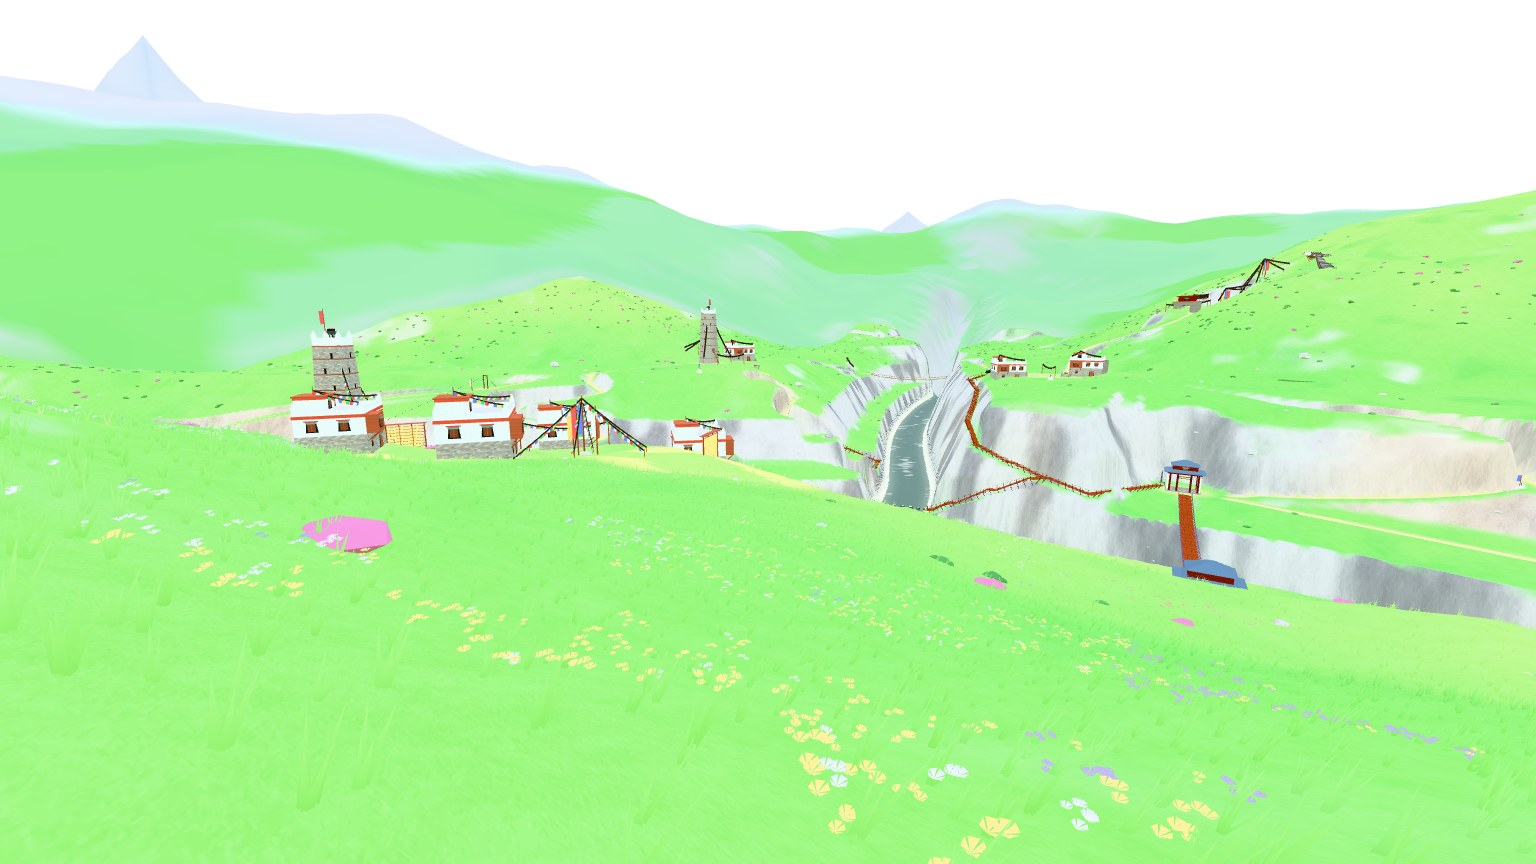
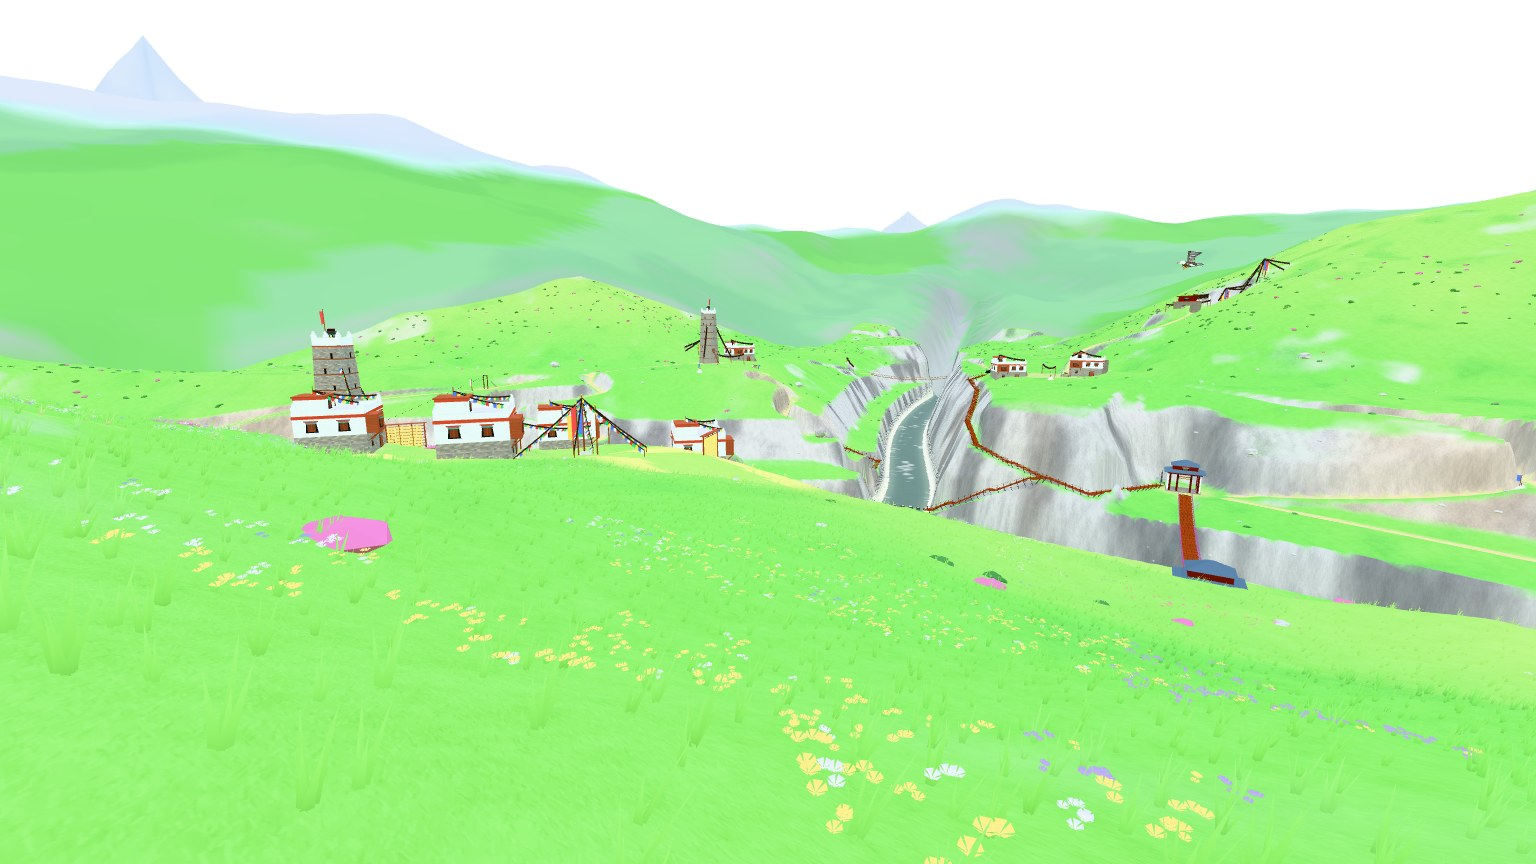
feat(art): 4-2 补西桥头机位概念图（铁索桥）；修正 4-2 叠标的视角——检视页每帧把相机视角重置成 72°
- 西桥头南侧 (−62, 98) 朝北偏东 48°：近处西桥楼 → 铁索桥 → 对岸东桥楼一条对角线，中间东岸栈道，左远江嘴碉楼；
  白模重绘（亭子按套件表第 7 件画成石基拱门桥楼）→ 去前景杂物、降饱和、压云影 → 崖面画成大块切面 → 代码降饱和；
  631：低饱和 76%、安静 40%
- 4-2 检视页每帧按 flight.fov（72°）重画，之前截到的白模其实是 72°，投影却按 45° / 55° 算，叠标偏了；
  render_blockouts.mjs 同时设 flight.fov，4-2 两个机位按实际的 72° 记（重渲白模与原图差异 0.04%，概念图不用重画）
- 雷桩坐标改成 spec.ts 的摆位，加东西桥楼；桥面那段路线让出桥楼进深、抬到桥面上方
- README：西桥头一行、坑（视角重置、图生图漂移约 8%，标注以白模为准）、自检、自评（雷桩剪影像中景假人形、桥楼换套件件）

diff --git a/docs/art/concepts/ch4-631/tools/route_maps.py b/docs/art/concepts/ch4-631/tools/route_maps.py
@@ -143,8 +143,11 @@ ROUTES = [(WHITE, 0, "主路线（推荐走法）"), (GOLD, 14, "支线 / 另一
 
 OVERLAYS = {
     "4-2_gorge": dict(src="4-2_gorge_scene_v5.jpg", view="4-2.json", title="4-2 大渡河 · 铁索桥峡谷",
-                      sub="机位：出生台前沿 (−160, 100)，朝北偏东 40°、俯 10°、竖直视角 45° · 白模 = src/world/gorge 检视页",
-                      legend_at=(0.73, 0.70)),
+                      sub="机位：出生台前沿 (−160, 100)，朝北偏东 40°、俯 10°、竖直视角 72° · 白模 = src/world/gorge 检视页",
+                      legend_at=(0.012, 0.70)),
+    "4-2_gorge_bridge": dict(src="4-2_gorge_bridge_scene_v3.jpg", view="4-2b.json", title="4-2 大渡河 · 西桥头（铁索桥）",
+                             sub="机位：西桥头南侧 (−62, 98)，朝北偏东 48°、仰 4°、竖直视角 72° · 白模 = src/world/gorge 检视页 · 标注以白模为准（重绘把远处东桥楼画高了约 8%）",
+                             legend_at=(0.79, 0.08)),
     "4-4_haizi": dict(src="4-4_haizi_scene_v5.jpg", view="4-4.json", title="4-4 神山海子 · 雷泽雷神",
                       sub="机位 = 出生点 (−18, 67.6)，面朝湖心岛（北偏东 15°）、仰 3°、竖直视角 50° · 白模 = src/world/haizi 检视页",
                       legend_at=(0.74, 0.70),

diff --git a/docs/art/concepts/ch4-631/README.md b/docs/art/concepts/ch4-631/README.md
@@ -6,7 +6,8 @@
 
 | 图 | 状态 | 白模底图 | 概念图 | 套件图 | 路线叠标 | 俯视规划 |
 |---|---|---|---|---|---|---|
-| 4-2 大渡河 · 铁索桥峡谷 | 网页检视页有白盒（`src/world/gorge/`），没有正式件 | `4-2_gorge_blockout.jpg` | `4-2_gorge_scene_v5.jpg` | `4-2_gorge_kit_v1.jpg` | `4-2_gorge_route_overlay.jpg` | `4-2_gorge_route_plan.jpg` |
+| 4-2 大渡河 · 铁索桥峡谷（出生机位） | 网页检视页有白盒（`src/world/gorge/`），没有正式件 | `4-2_gorge_blockout.jpg` | `4-2_gorge_scene_v5.jpg` | `4-2_gorge_kit_v1.jpg` | `4-2_gorge_route_overlay.jpg` | `4-2_gorge_route_plan.jpg` |
+| 4-2 · 西桥头机位（铁索桥） | 同上 | `4-2_gorge_bridge_blockout.jpg` | `4-2_gorge_bridge_scene_v3.jpg` | 同上 | `4-2_gorge_bridge_route_overlay.jpg` | 同上 |
 | 4-4 神山海子（终局 · 雷泽雷神） | 网页检视页有白盒（`src/world/haizi/`） | `4-4_haizi_blockout.jpg` | `4-4_haizi_scene_v5.jpg` | `4-4_haizi_kit_v1.jpg` | `4-4_haizi_route_overlay.jpg` | `4-4_haizi_route_plan.jpg` |
 | 4-A 雪域宫堡（新备选图） | 只有设计稿 [maps/4-A.md](../../../level-design/maps/4-A.md) + 按设计稿搭的最简白模 | `4-A_fortress_blockout.jpg` | `4-A_fortress_scene_v7.jpg` | `4-A_fortress_kit_v1.jpg` | `4-A_fortress_route_overlay.jpg` | `4-A_fortress_route_plan.jpg` |
 
@@ -31,13 +32,18 @@
 
 | 图 | 机位 | 改了几遍 |
 |---|---|---|
-| 4-2 | 出生台前沿 (−160, 100)（出生点往前 25 m），朝北偏东 40°、俯 10°、竖直视角 45° | v3 重绘 → v4：模型把东岸崖上的栈道画成了一座横跨石槽的铁索桥（这个机位里根本没有桥，铁索桥在画面右边外面）→ 改成贴崖的栈道；前景去掉大石、灌木、花草；去掉寨坡上的树；急流压平 → v5：草坡降饱和（自检高饱和 13% → 0%），前景压一层云影，前 / 中 / 后三条明度带拉开 |
+| 4-2 | 出生台前沿 (−160, 100)（出生点往前 25 m），朝北偏东 40°、俯 10°、竖直视角 72° | v3 重绘 → v4：模型把东岸崖上的栈道画成了一座横跨石槽的铁索桥（这个机位里根本没有桥，铁索桥在画面右边外面）→ 改成贴崖的栈道；前景去掉大石、灌木、花草；去掉寨坡上的树；急流压平 → v5：草坡降饱和（自检高饱和 13% → 0%），前景压一层云影，前 / 中 / 后三条明度带拉开 |
+| 4-2 西桥头（11-18 补） | 西桥头南侧 (−62, 98)，朝北偏东 48°、仰 4°、竖直视角 72°：近处西桥楼，铁索桥斜拉到对岸东桥楼，中间是东岸栈道，左远是江嘴碉楼 | v1 重绘（检视页里的红柱蓝顶亭子按套件表第 7 件画成石基拱门桥楼，位置体量不变）→ v2：去前景大石、灌木、花和坡上的树，草坡和天降饱和，前景压云影 → v3：石槽崖面画成大块切面；模型顺手把天调艳了，用代码整体降饱和 30%、前景压暗 |
 | 4-4 | 出生点 (−18, 67.6)，面朝湖心岛（北偏东 15°）、仰 3°、竖直视角 50° | v4 重绘（左侧按设计加冰舌）→ v5：前景去掉散石、柱顶雷晶不发光 → v6 改坏了（前景成了一条死黑的带子、天更艳），**退回 v5**，只用代码把前景按云影压暗 30%、天空降 25% 饱和（纯调明暗，不重绘、不模糊） |
 | 4-A | 出生点 (−150, 130)，朝北偏东 52°、仰 5°、竖直视角 36°（宫堡离出生点约 290 m，视角收窄一点才看得清） | v5 重绘 → v6：前景去掉石头；之字坡道画成一段段带连续白女墙的斜道、在小平台折返 → v7：前景压云影、天空降饱和、远山去碎纹 |
 
 套件图（`*_kit_v1.jpg`）沿用第一轮的：件件分开、同一视角、灰底、中性白光、固有色，不画火、烟、光、雪（雪交给着色器按朝上的面刷）。
 
-出图用仓库里的 OpenAI 客户端（`art/pipeline/lib/openai_image.py`，`gpt-image-2.5-sunburst`，2048 × 1152，high）。第二轮共 9 次图生图。
+出图用仓库里的 OpenAI 客户端（`art/pipeline/lib/openai_image.py`，`gpt-image-2.5-sunburst`，2048 × 1152，high）。第二轮共 12 次图生图。
+
+两个坑：
+- **4-2 检视页每一帧都把相机视角重置成 72°**（`flight.fov`），第一次渲染时设的 45° / 55° 只管第一帧，截图前页面又按 72° 画了一帧，投影却按 45° / 55° 算，叠标就对不上。现在脚本把 `flight.fov` 一起设掉，4-2 两个机位都按实际的 72° 记（按 72° 重渲的白模和原来的逐像素对比，差异 0.04%，所以概念图不用重画）。
+- 图生图会轻微漂移：西桥头那张，远处的东桥楼被画高了约 8% 画高，叠标里的桥线因此落在画中桥面下方。**标注以白模为准**，要核对就把 `tools/views/*.json` 画到 `*_blockout.jpg` 上看。
 
 ### 1.2 第一轮（2026-11-17，已被取代）
 
@@ -51,6 +57,7 @@
 | 图 | 颜色 低饱和 / 固有色 / 高饱和 | 明度 暗 / 中暗 / 中间调 / 亮（平均 · 跨度） | 密度 安静 / 中等 / 密集 | 脚本提示 |
 |---|---|---|---|---|
 | 4-2 v5 | 69 / 31 / 0 | 0 / 37 / 36 / 26（51 · 69） | 47 / 44 / 8 | 没有点缀色 |
+| 4-2 西桥头 v3 | 76 / 24 / 0 | 2 / 23 / 57 / 19（53 · 63） | 40 / 55 / 5 | 没有点缀色；中间调 57%（阈值 55%） |
 | 4-4 v5 | 57 / 43 / 0 | 0 / 11 / 75 / 14（57 · 38） | 14 / 51 / 35 | 没有点缀色；明度挤在中间调；安静 14%；密集 35% |
 | 4-A v7 | 46 / 54 / 0 | 0 / 7 / 57 / 36（63 · 51） | 42 / 37 / 20 | 没有点缀色；明度挤在中间调 |
 
@@ -77,7 +84,11 @@
 ### 我自己挑的毛病（搭图时改，不再改图）
 
 - **4-2**：出生点第一眼，前景空坡占了画面下半，江嘴碉楼离得远（275 m）、在画面里偏小。这是真实地形决定的，概念图不去夸大。碉楼已经是 24 m、楼顶有烽火，再加高会压过寨坡；要让它在第一眼更跳，靠光：傍晚的太阳只照亮江嘴台地和楼顶，前面的寨坡和石槽留在阴影里。
-  **铁索桥不在出生机位的画面里**（在右下方画面外），出生点第一眼看不到全图最有戏的那座桥。可以考虑把出生台往东挪 20–30 m，或者另出一张「西桥头机位」的概念图。
+  **铁索桥不在出生机位的画面里**（在右下方画面外）：已补一张西桥头机位（`4-2_gorge_bridge_*`）。
+- **4-2 西桥头**：桥是这张图的主角，近处桥楼 → 桥面 → 对岸桥楼是一条从左下到右上的对角线，构图不用动。要改的在搭图时：
+  ① 检视页里的桥楼是红柱蓝顶的亭子，要换成套件表第 7 件（石基拱门 + 白墙上层），拱门正对桥面；
+  ② 雷桩高约 2.4 m、细长、深色，站在中景桥头，剪影接近一个人（composition.md 第 6 节「中景假人形」）——要么做矮做粗（1.6 m、直径 1.4 m 的石墩 + 一圈铁笼），要么铁笼常亮一点青金色，让它一眼看出是机关；
+  ③ 石槽崖面按这张图的大切面做程序化崖壁，不用 Tripo。
 - **4-4**：三根石柱等高等形，是玩法要求（四根一样的导雷柱），不对称交给冰舌。白模里还没有冰舌：冰舌是这张概念图加的，要做进 `haizi/terrain.ts` 和摆件（套件图第 9 件）。
 - **4-A**：从出生点看，宫堡在 290 m 外，坡道很细，第一眼只读得出「白墙一层层往上」，读不出「之字路」。要么把出生点挪近（主路石桥前约 150 m），要么坡道女墙加粗、压顶用赭红。这一条留给建图时按实际截图定。
   白墙压白雪靠岩面和赭红墙带分开：实景里岩面要比概念图再暗半档，墙脚留一圈露岩。
